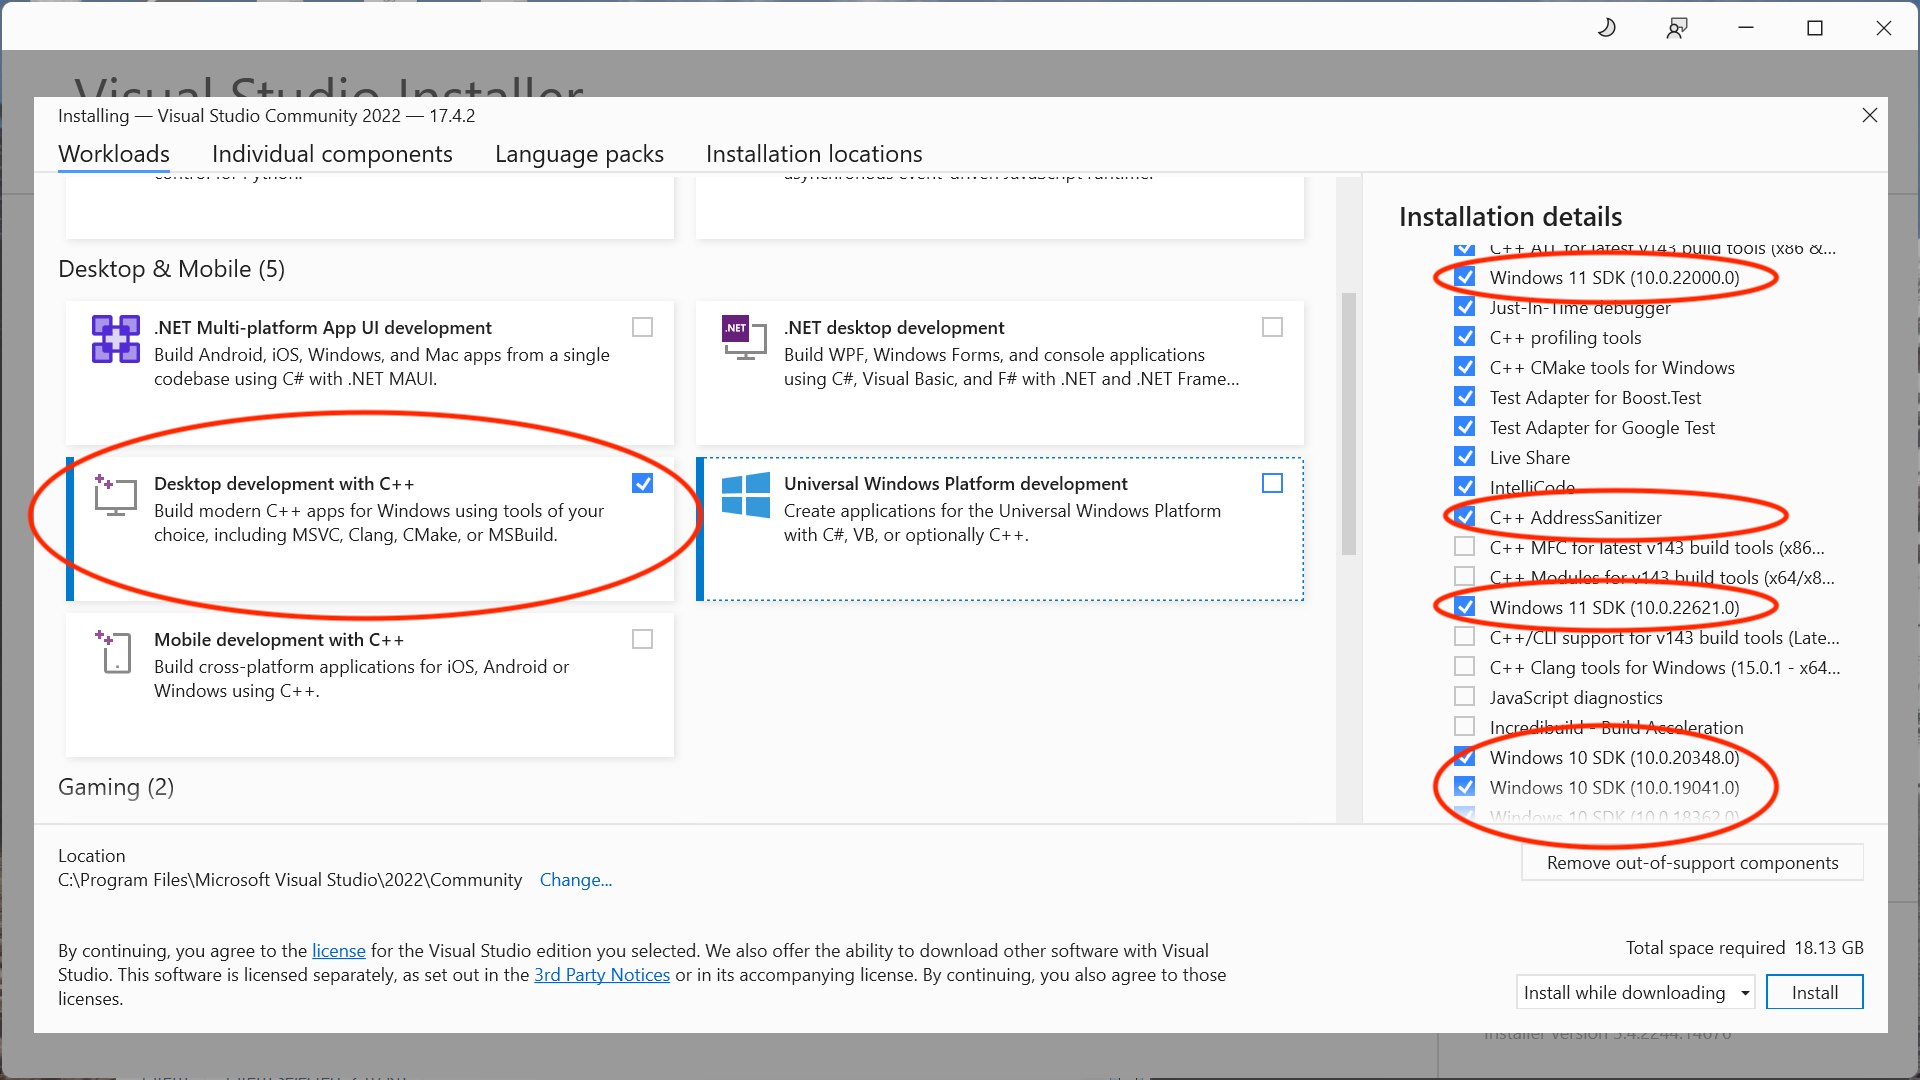
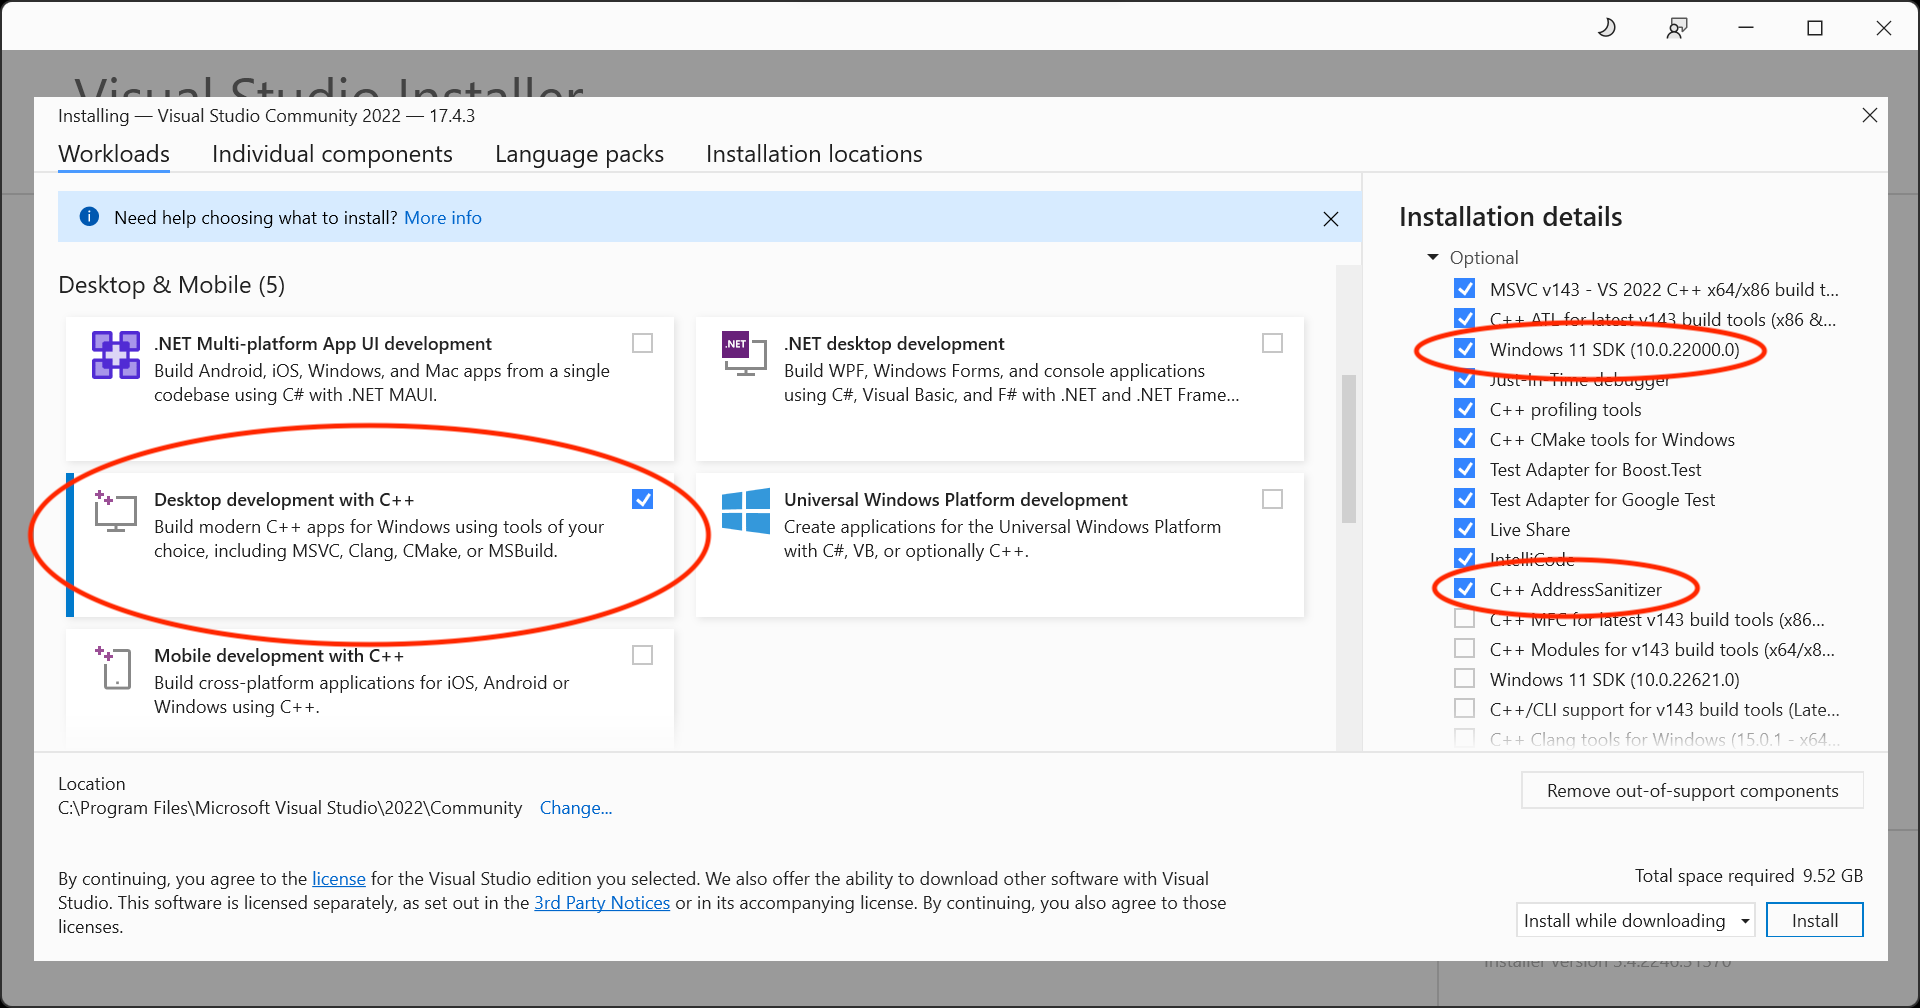
Update install screenshots

diff --git a/docs/setup_visualstudio.md b/docs/setup_visualstudio.md
@@ -38,8 +38,6 @@ Select "Desktop Development with C++" and make sure that the "Windows 10 SDK", "
 
 Start Visual Studio.  The first time, you'll be asked about a few preferences.
 
-<img src="images/visualstudio020.png" width="360px" />
-
 The screenshots in the tutorial were created with Visual Studio Community 2022.  Your version might be different.
 
 ## Create a project
